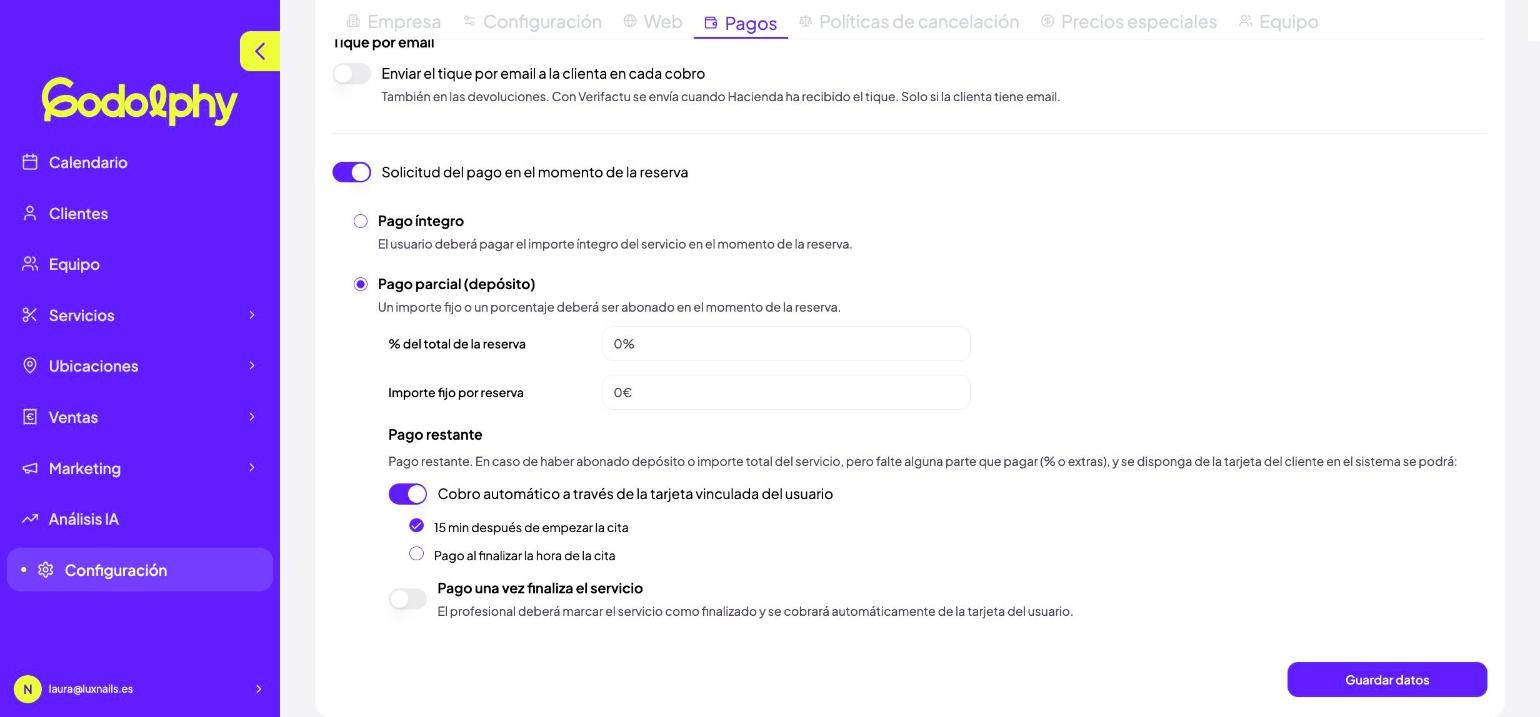
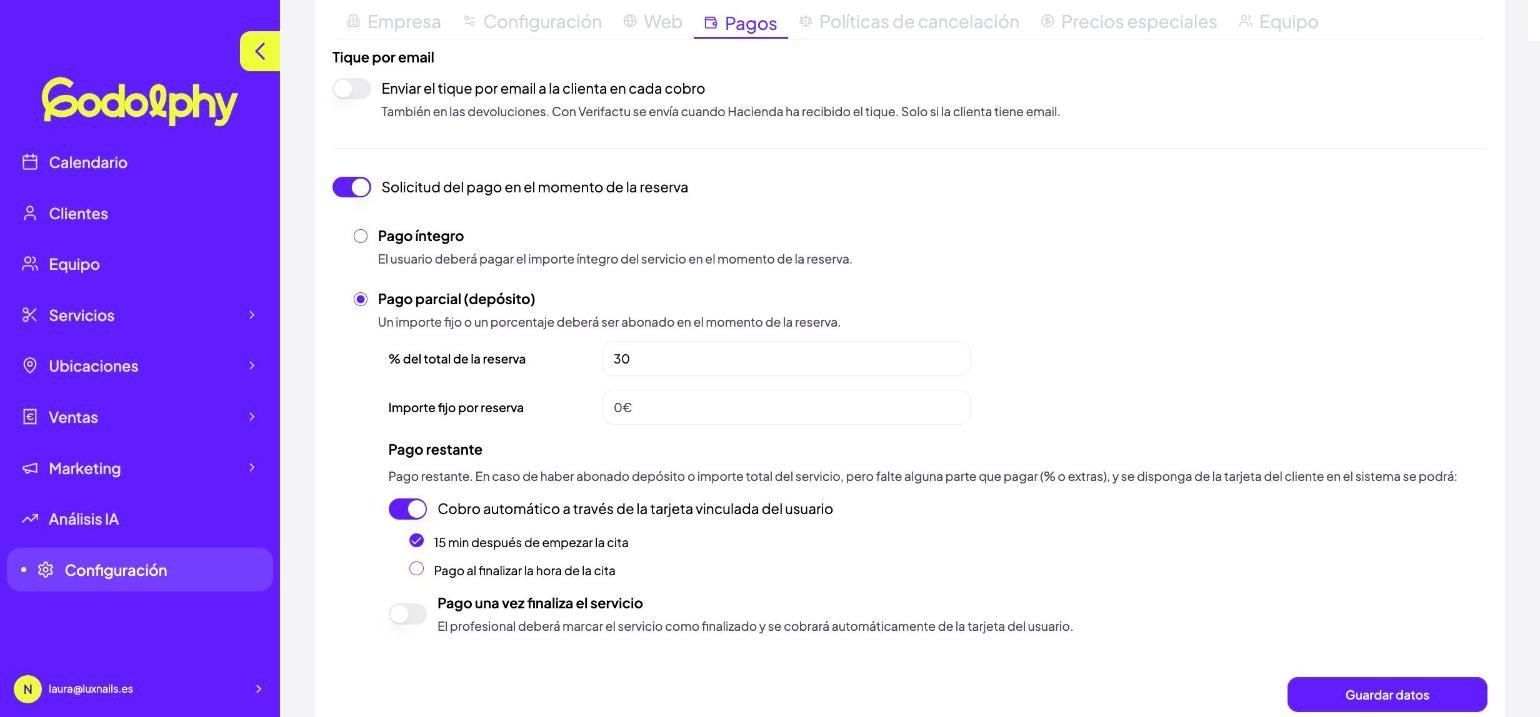
Help center: Verifactu ticket screenshot (fictional demo data) and Pagos screenshot with a 30% deposit
Claude-Session: https://claude.ai/code/session_018L6ejNZidk8d7vFV11LMYm

diff --git a/ayuda/verifactu/index.html b/ayuda/verifactu/index.html
@@ -292,7 +292,7 @@ function toggleMobileNav(){
   <li>El <strong>TOTAL</strong> y la forma de pago.</li>
   <li>El código QR con «VERI*FACTU» y «Factura verificable en la sede electrónica de la AEAT».</li>
 </ul>
-
+<figure class="shot has-img"><img src="/ayuda/img/verifactu-tique.jpg" alt="Factura simplificada con el QR de Verifactu" loading="lazy"/><figcaption>Factura simplificada con el QR de Verifactu</figcaption></figure>
 
 <h2 id="devoluciones">Devoluciones: factura rectificativa</h2>
 <p>Cuando haces una devolución con <strong>Devolver</strong>, Godolphy crea sola una <strong>Factura rectificativa (simplificada)</strong>, con su propio número de la serie R. Indica qué factura rectifica y lleva los importes en negativo.</p>
